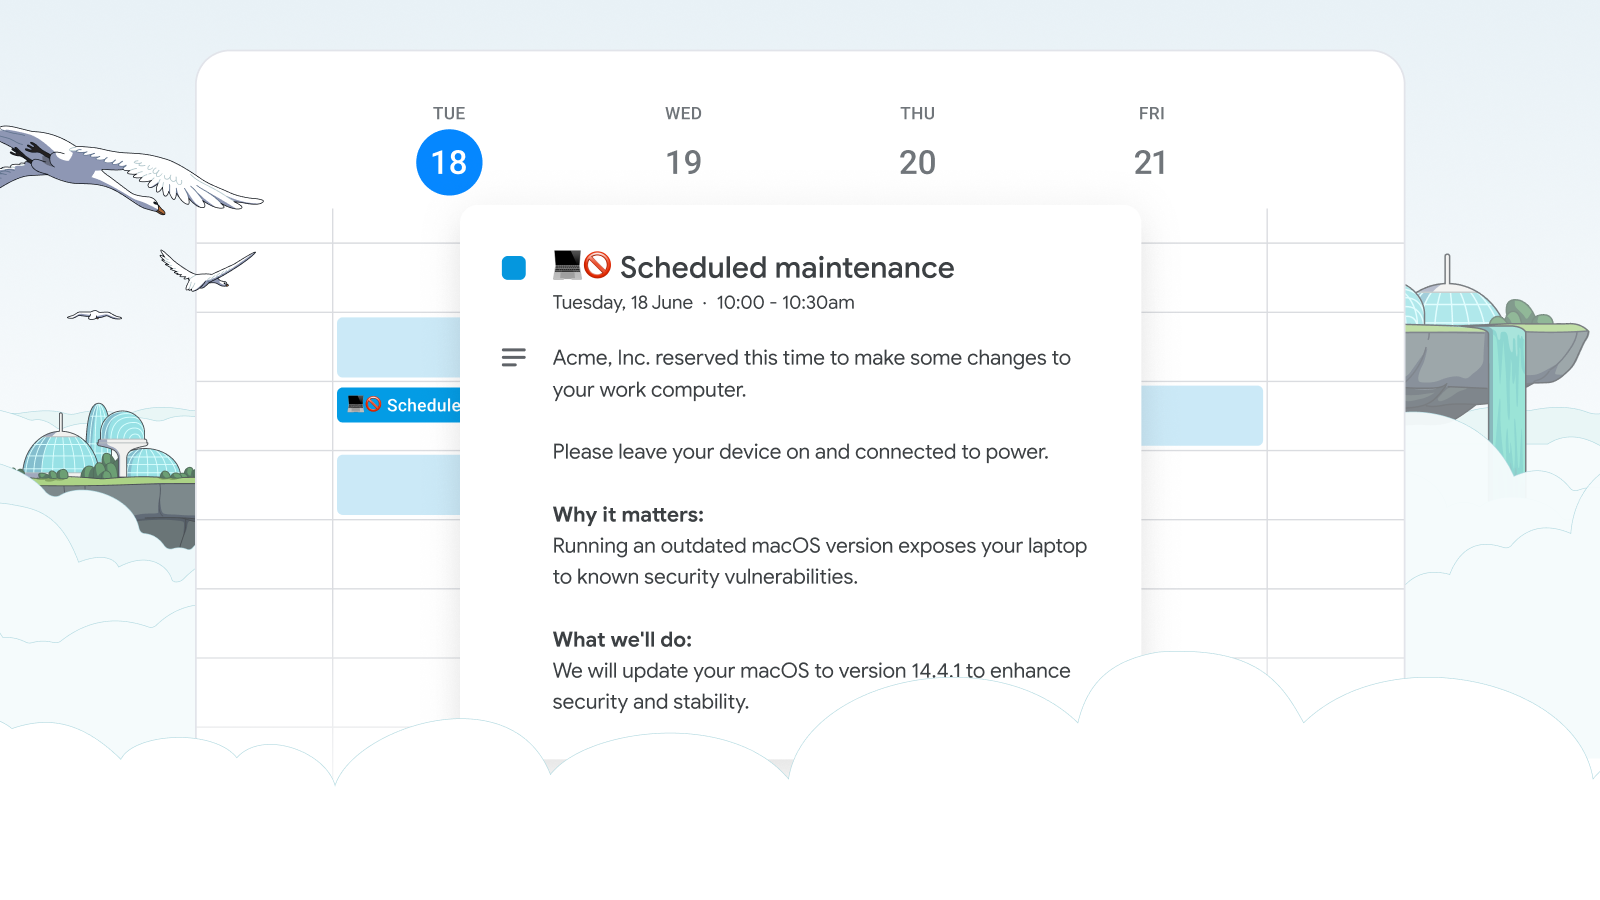
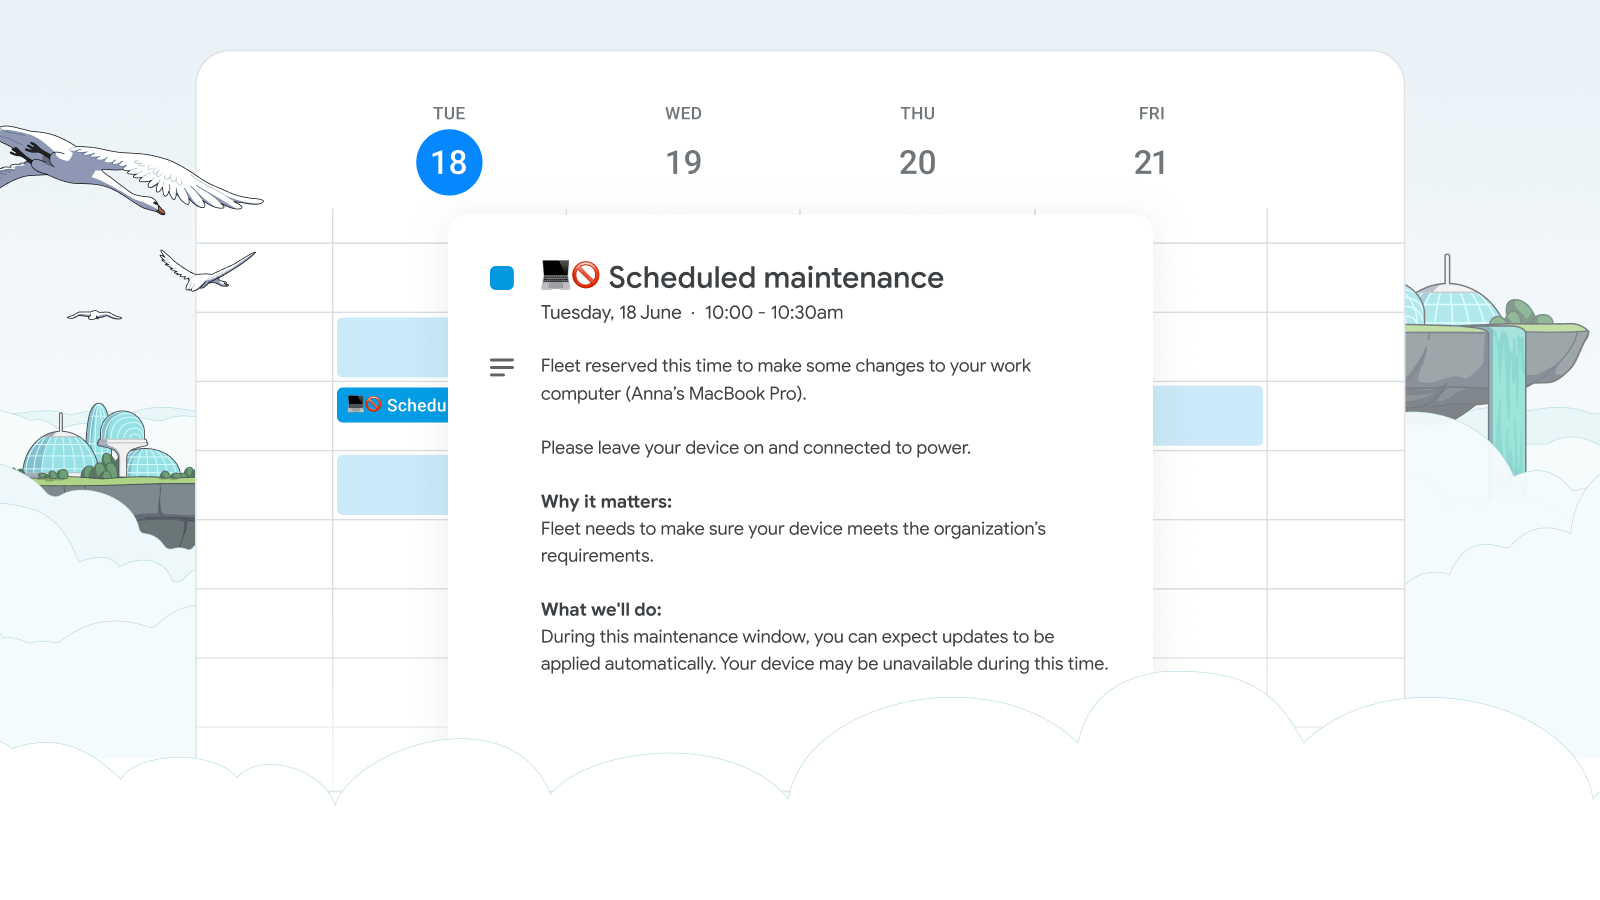
Article update
- added note and updated graphics.

diff --git a/articles/fleet-in-your-calendar-introducing-maintenance-windows.md b/articles/fleet-in-your-calendar-introducing-maintenance-windows.md
@@ -1,5 +1,7 @@
 # Fleet in your calendar: introducing maintenance windows 
 
+> Unlike other Fleet features which take advantage of declarative device management (DDM), the approach described in this article still uses traditional MDM commands.  (More to come.)
+
 ![Fleet in your calendar: introducing maintenance windows](../website/assets/images/articles/fleet-in-your-calendar-introducing-maintenance-windows-cover-900x450@2x.png)
 
 Fleet is excited to announce the release of "maintenance windows", a new feature in Fleet v4.48 that helps make sure OS updates occur during times that disrupt your users the least. Now, just like any good colleague, when Fleet needs some of your time, it puts it on your calendar. This approach avoids interrupting your key activities or important meetings, whether in the office, on the road, or working remotely.
